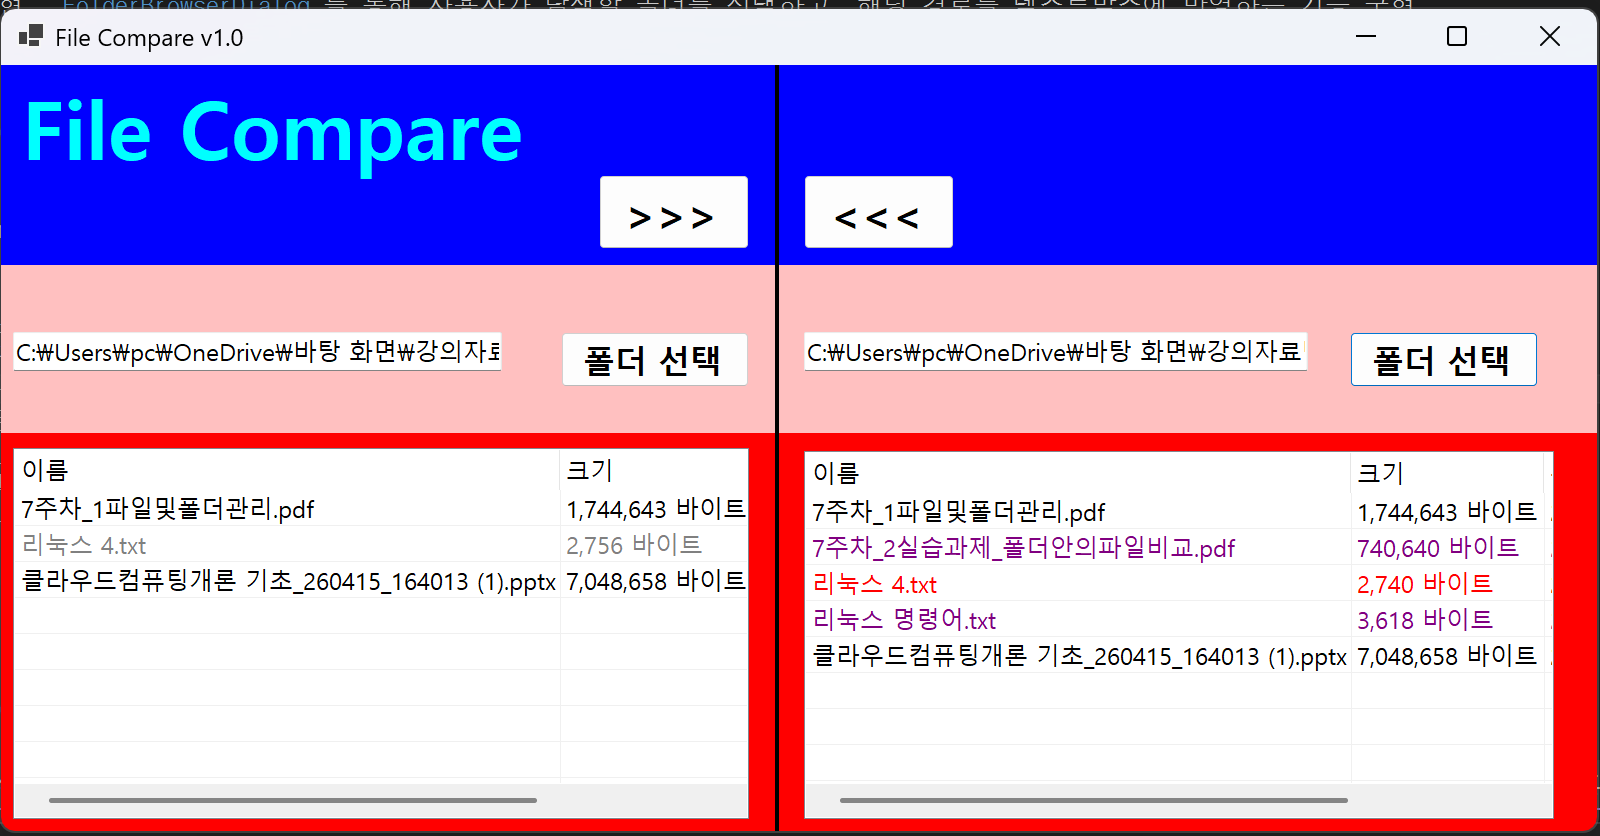
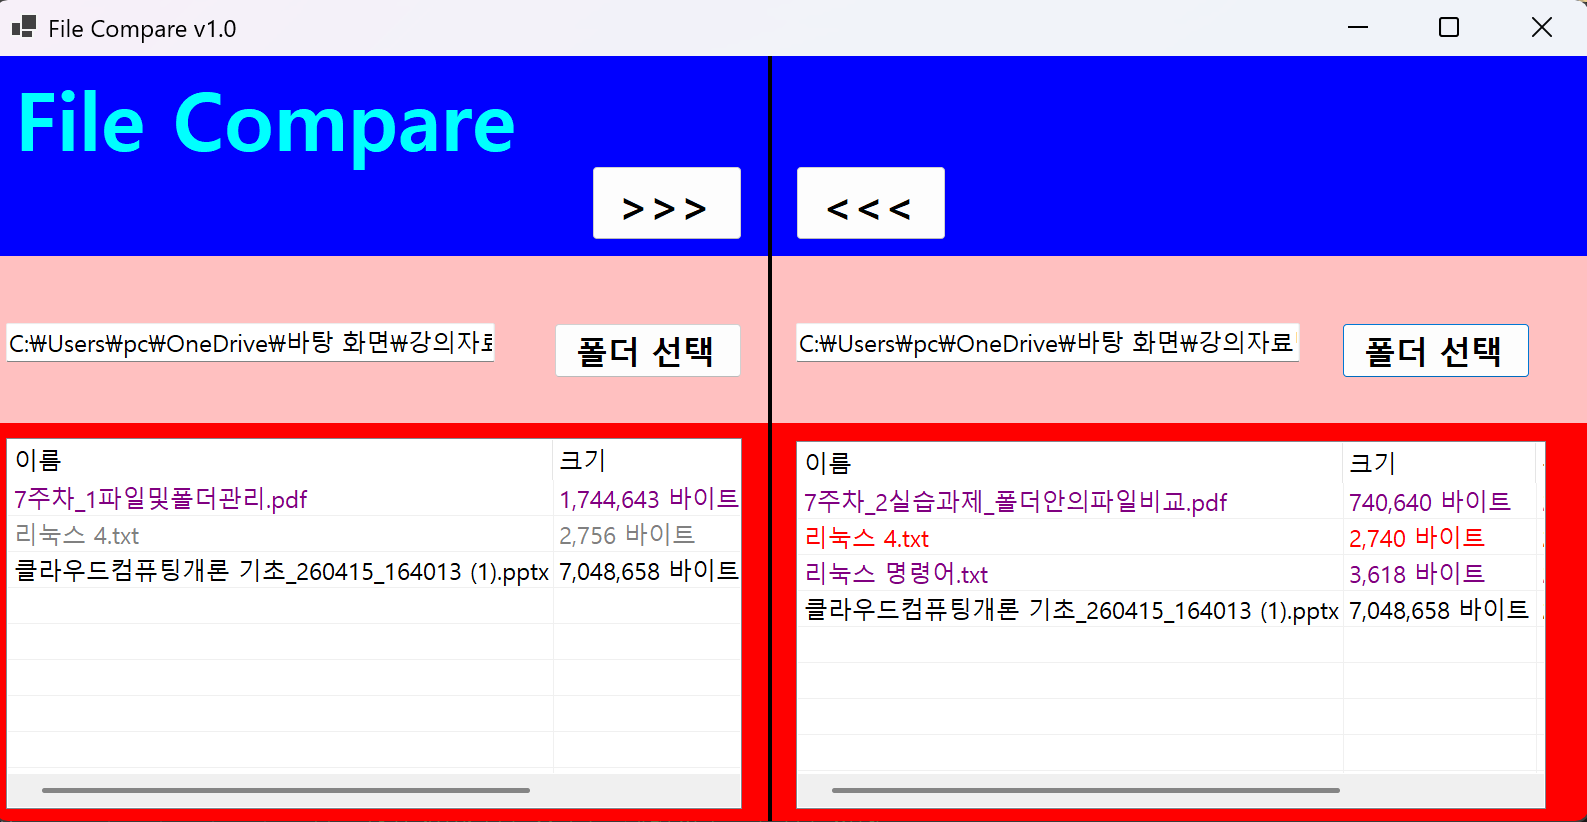
과제3 코딩과 테스트 완료 오른쪽 복사 버튼까지 구현하였고 여러가지 실험들을 해서 디버깅을 완료하였고 리드미 작성도 완료하였습니다.

diff --git a/Form1.cs b/Form1.cs
@@ -217,6 +217,48 @@ namespace FileCompare
 
             MessageBox.Show("왼쪽에서 오른쪽으로 복사가 완료되었습니다!");
         }
+
+        private void btnCopyFromRight_Click(object sender, EventArgs e)
+        {
+            // 1. 오른쪽 리스트뷰(lvwRightDir)에서 선택된 항목이 있는지 확인
+            if (lvwRightDir.SelectedItems.Count == 0)
+            {
+                MessageBox.Show("복사할 파일을 오른쪽 목록에서 선택해주세요.");
+                return;
+            }
+
+            // 2. 경로 설정 (오른쪽이 Source, 왼쪽이 Target)
+            string sourceDir = txtRightDir.Text;
+            string targetDir = txtLeftDir.Text;
+
+            // 3. 선택된 항목들을 루프 돌며 복사
+            foreach (ListViewItem item in lvwRightDir.SelectedItems)
+            {
+                // 폴더(<DIR>)인 경우는 제외하고 파일만 처리
+                if (item.SubItems[1].Text == "<DIR>") continue;
+
+                string fileName = item.Text;
+                string sourcePath = Path.Combine(sourceDir, fileName);
+                string targetPath = Path.Combine(targetDir, fileName);
+
+                try
+                {
+                    // 파일 복사 (true: 왼쪽 폴더에 이미 있으면 덮어쓰기)
+                    File.Copy(sourcePath, targetPath, true);
+                }
+                catch (Exception ex)
+                {
+                    MessageBox.Show($"{fileName} 복사 중 오류: {ex.Message}");
+                }
+            }
+
+            // 4. 복사 완료 후 양쪽 리스트 갱신 및 색상 다시 비교
+            PopulateListView(lvwLeftDir, targetDir);
+            PopulateListView(lvwRightDir, sourceDir);
+            CompareFiles();
+
+            MessageBox.Show("오른쪽에서 왼쪽으로 복사가 완료되었습니다!");
+        }
     }
 }
     

diff --git a/Form1.Designer.cs b/Form1.Designer.cs
@@ -278,6 +278,7 @@
             btnCopyFromRight.TabIndex = 2;
             btnCopyFromRight.Text = "<<<";
             btnCopyFromRight.UseVisualStyleBackColor = true;
+            btnCopyFromRight.Click += btnCopyFromRight_Click;
             // 
             // Form1
             // 

diff --git a/README.md b/README.md
@@ -47,10 +47,15 @@
 ## 실행 화면 (과제3)
 - 코드의 실행 스크린샷과 구현 내용 설명
 
-![실행화면](img/screenshot-3.png)
+![실행화면](img/screenshot3-1.png)
+![실행화면](img/screenshot3.png)
 
 - 구현한 내용 (위 그림 참조)
-    - (과제 3 완료 후 작성 예정)
+    - 구현한 내용 (위 그림 참조)
+    - 양방향 파일 복사 기능: `btnCopyFromLeft`(>>>)와 `btnCopyFromRight`(<<<) 버튼을 통해 선택한 파일을 반대편 폴더로 전송하는 기능을 구현하였습니다.
+    - 파일 동기화 및 덮어쓰기: `File.Copy` 메서드의 `overwrite` 매개변수를 `true`로 설정하여, 구버전 파일(회색)이나 단독 파일(보라색)을 최신 상태로 즉시 업데이트할 수 있도록 하였습니다.
+    - 실시간 상태 업데이트: 복사가 완료된 후 `PopulateListView`와 `CompareFiles` 함수를 재호출하여, 양쪽 폴더의 파일 상태가 '동일(검은색)'로 변경되는 것을 시각적으로 즉시 확인할 수 있게 설계하였습니다.
+    - 예외 처리 및 안전성: 파일 복사 중 발생할 수 있는 접근 권한 문제나 파일 사용 중 오류를 `try-catch` 문으로 제어하여 프로그램의 중단 없이 안정적인 동작이 가능하도록 구현하였습니다.
 
 ---
 
